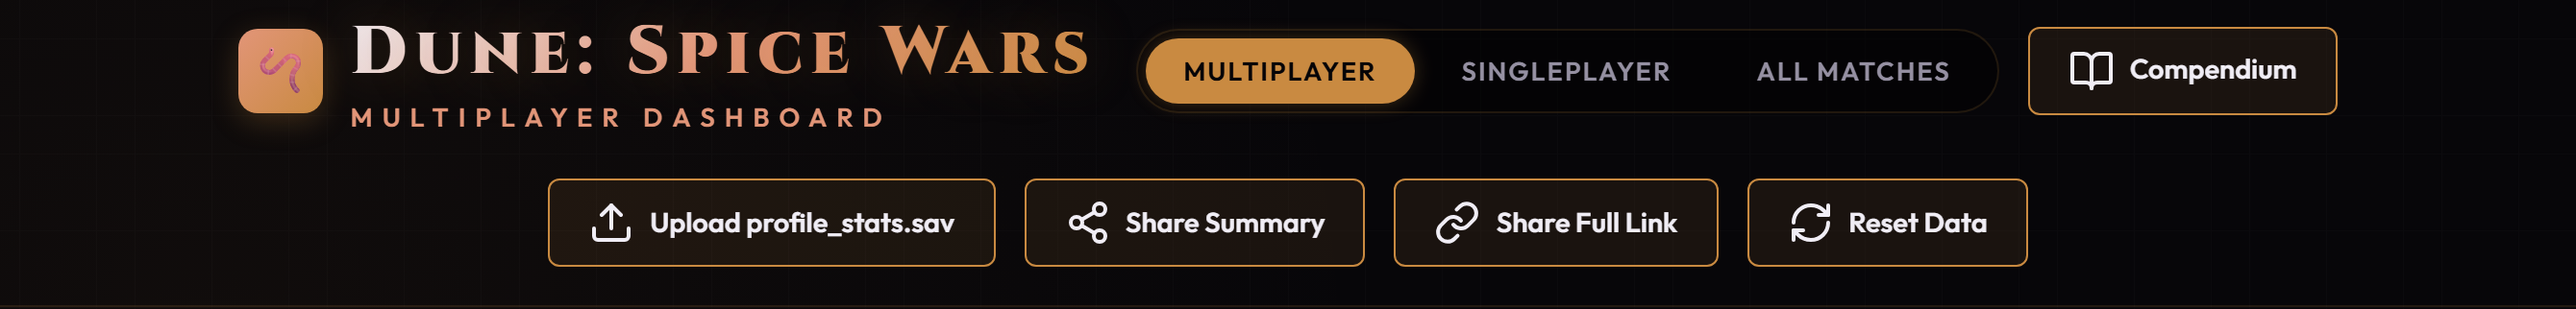
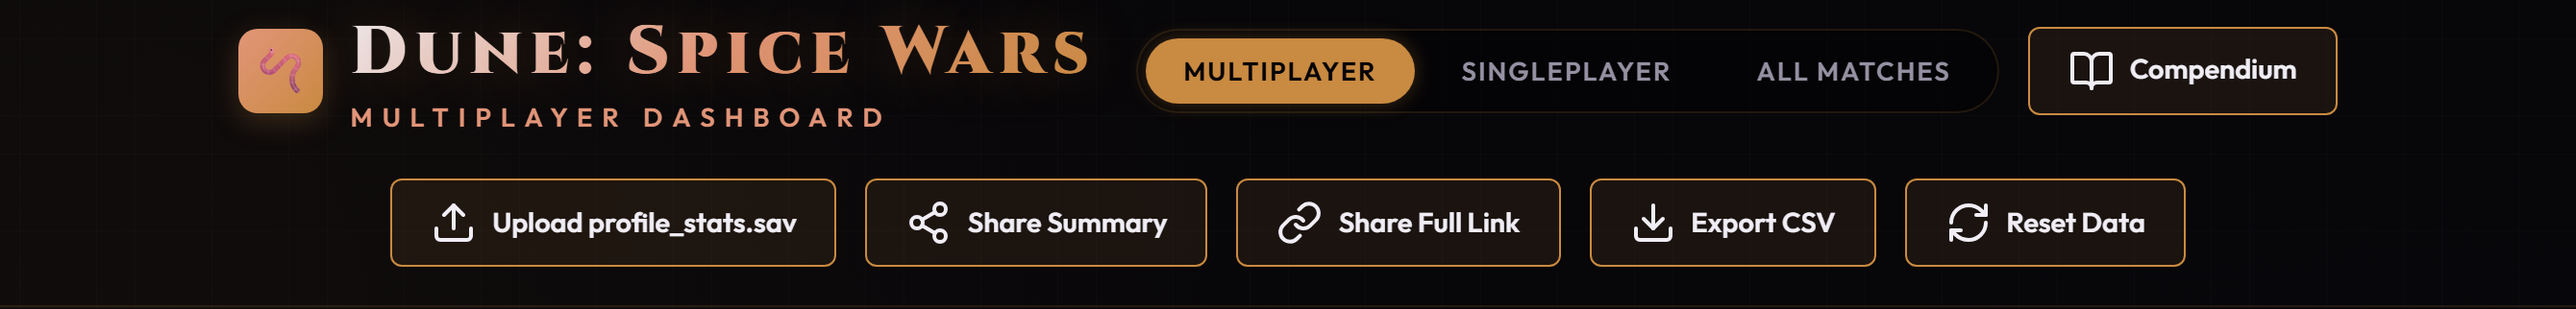
Add CSV export of match history to the dashboard
Adds an "Export CSV" button to the dashboard header and an exportCsv()
function that downloads the current match table as a spreadsheet
(dune-spice-wars-matches-YYYY-MM-DD.csv).

- Exports filteredGamesList, so it honors the active mode, search,
  filters, and sort (WYSIWYG with the on-screen table).
- 15 columns, including a few not shown in the table (player,
  councillors, difficulty, raw duration in seconds, operations run).
- RFC 4180 quoting, with a leading-apostrophe guard for values starting
  with = + - @ so a modded save name cannot be evaluated as a spreadsheet
  formula. UTF-8 BOM for Excel, CRLF line endings.
- Pure client-side Blob download, consistent with the no-server design.

Also adds flex-wrap to .controls-area so the now-five header buttons
wrap instead of overflowing on mid-width screens, regenerates the header
screenshot, and documents the feature in the README.

diff --git a/dashboard.html b/dashboard.html
@@ -160,6 +160,7 @@
             display: flex;
             align-items: center;
             justify-content: center;
+            flex-wrap: wrap;
             gap: 15px;
         }
 
@@ -1044,6 +1045,11 @@
                 <button id="share-btn" class="file-upload-btn" onclick="shareLink()">
                     <i data-lucide="link"></i>
                     Share Full Link
+                </button>
+                <button id="export-csv-btn" class="file-upload-btn" onclick="exportCsv()"
+                        title="Download the match table (respecting current filters) as a CSV spreadsheet">
+                    <i data-lucide="download"></i>
+                    Export CSV
                 </button>
                 <button id="reset-btn" class="file-upload-btn" onclick="resetData()">
                     <i data-lucide="refresh-cw"></i>
@@ -2362,6 +2368,96 @@
                 console.error(err);
                 showToast('Could not create a share link in this browser.', true);
             }
+        };
+
+        // Export the current (filtered + sorted) match list as a CSV file. Like the
+        // share links, this is entirely client-side — a Blob download, nothing leaves
+        // the browser.
+        window.exportCsv = function() {
+            if (!(currentProfileData && currentProfileData.games && currentProfileData.games.length)) {
+                showToast('Load a save file first, then export.', true);
+                return;
+            }
+            // filteredGamesList reflects the active mode, search, filters, and sort,
+            // so the CSV matches exactly what the match table is showing.
+            const rows = filteredGamesList;
+            if (!rows || rows.length === 0) {
+                showToast('No games match the current filters.', true);
+                return;
+            }
+
+            const headers = [
+                'Date', 'Player', 'Faction', 'Outcome', 'Victory Condition',
+                'Mode', 'Format', 'Hero', 'Councillors', 'Duration', 'Duration (s)',
+                'Difficulty', 'Worm Deaths', 'Supply Deaths', 'Operations'
+            ];
+
+            // RFC 4180 escaping: always wrap in double quotes and double any embedded
+            // quotes, so commas, quotes, and newlines in names can't break the columns.
+            // Also prefix a guard apostrophe when a value starts with a formula trigger
+            // (= + - @ tab CR) so a modded save's faction/operation name can't be
+            // evaluated as a spreadsheet formula on open.
+            const esc = (val) => {
+                const s = (val === null || val === undefined) ? '' : String(val);
+                const safe = /^[=+\-@\t\r]/.test(s) ? "'" + s : s;
+                return '"' + safe.replace(/"/g, '""') + '"';
+            };
+
+            const lines = [headers.map(esc).join(',')];
+
+            rows.forEach(g => {
+                // ISO date portion (YYYY-MM-DD) sorts correctly in a spreadsheet.
+                const dateClean = (g.realDateStr || '').split(' ')[0] || 'Unknown';
+                const player = getPlayerName(g.userId);
+                const outcome = g.isVictory ? 'Victory' : 'Defeat';
+                const victoryCond = getVictoryCondition(g);
+                const mode = g.isMulti ? 'Multiplayer' : 'Singleplayer';
+                const format = g.isTeamGame ? 'Team' : 'Solo';
+                const hero = getHeroName(g.hero, g.faction);
+                const councillors = (g.councilors || []).map(getCouncilorName).join('; ');
+                const duration = formatDuration(g.currentTime);
+                const durationSecs = Math.round(g.currentTime || 0);
+                const difficulty = getDifficultyLabel(g.difficulty);
+                const wormDeaths = g.stats ? (g.stats.DeathByWorm || 0) : 0;
+                const splyDeaths = g.stats ? (g.stats.DeathBySupply || 0) : 0;
+
+                // Operations with repeat counts, e.g. "Sabotage (x2); Bribe".
+                let opsStr = '';
+                const ops = g.stats ? g.stats.OperationUsed : null;
+                if (ops && ops.length) {
+                    const counts = {};
+                    ops.forEach(op => { counts[op] = (counts[op] || 0) + 1; });
+                    opsStr = Object.keys(counts)
+                        .map(op => counts[op] > 1 ? op + ' (x' + counts[op] + ')' : op)
+                        .join('; ');
+                }
+
+                lines.push([
+                    dateClean, player, g.faction, outcome, victoryCond,
+                    mode, format, hero, councillors, duration, durationSecs,
+                    difficulty, wormDeaths, splyDeaths, opsStr
+                ].map(esc).join(','));
+            });
+
+            // Leading UTF-8 BOM (U+FEFF) so Excel renders accented faction/hero names correctly.
+            const csv = '' + lines.join('\r\n');
+            const blob = new Blob([csv], { type: 'text/csv;charset=utf-8;' });
+
+            const d = new Date();
+            const pad = (n) => String(n).padStart(2, '0');
+            const stamp = d.getFullYear() + '-' + pad(d.getMonth() + 1) + '-' + pad(d.getDate());
+            const filename = 'dune-spice-wars-matches-' + stamp + '.csv';
+
+            const url = URL.createObjectURL(blob);
+            const a = document.createElement('a');
+            a.href = url;
+            a.download = filename;
+            document.body.appendChild(a);
+            a.click();
+            document.body.removeChild(a);
+            URL.revokeObjectURL(url);
+
+            showToast('Exported ' + rows.length + ' match' + (rows.length === 1 ? '' : 'es') + ' to ' + filename + '.');
         };
 
         // Active games for the current mode, used when building a summary to share.

diff --git a/README.md b/README.md
@@ -23,6 +23,8 @@ static page that runs **100% in your browser**. No account, no upload, no server
   randomizer.
 - **Shareable links** — send your full results or a compact summary to a friend; the
   data rides inside the URL, so there is still no server involved.
+- **CSV export** — download your match history (honoring the active filters and sort) as
+  a spreadsheet for your own analysis.
 - **Private by design** — everything is parsed and rendered locally in your browser.
 
 ---
@@ -103,11 +105,21 @@ councillors, duration, difficulty, death breakdown, and the operations executed 
 
 ![Match detail modal](docs/sec-match-detail.png)
 
+### Export to CSV
+
+Need your match history outside the dashboard? The **Export CSV** button in the header
+downloads the current table as a spreadsheet (`dune-spice-wars-matches-YYYY-MM-DD.csv`),
+honoring whatever search, filters, and sort you've applied — so you can pull, say, just
+your Atreides victories. It carries a slightly richer column set than the on-screen table
+(player, councillors, difficulty, raw duration in seconds, and the operations run that
+game) and, like the share links, it's generated entirely in your browser with nothing
+uploaded.
+
 ### Sharing your results
 
-Two share buttons live in the header:
+The header also holds two share buttons (alongside the Export CSV button above):
 
-![Dashboard header with share buttons](docs/sec-header.png)
+![Dashboard header with share and export buttons](docs/sec-header.png)
 
 - **Share Summary** — copies a short link containing just the aggregates (cards, charts,
   and leaderboard). It stays small no matter how many games you have (a ~600-character
